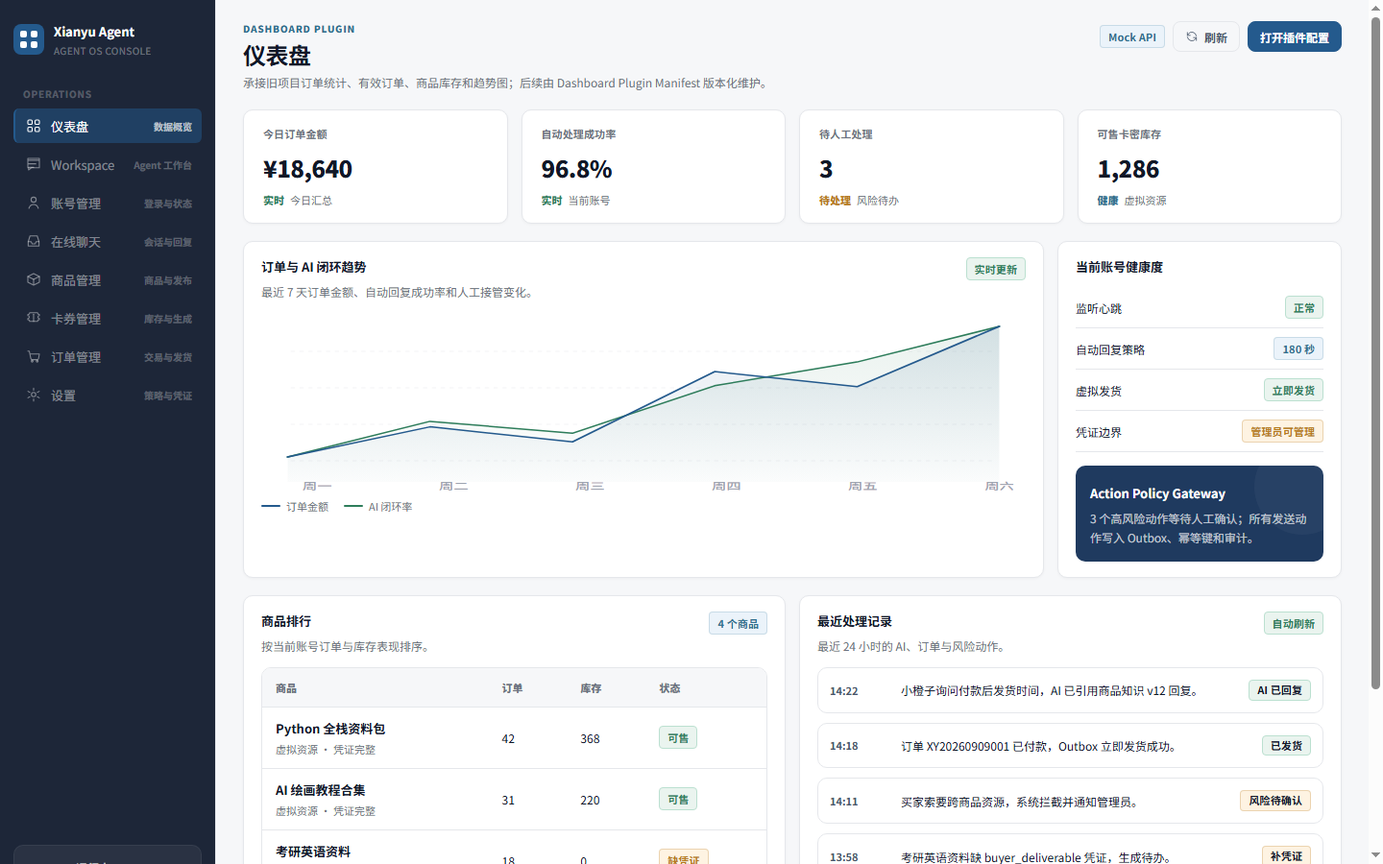
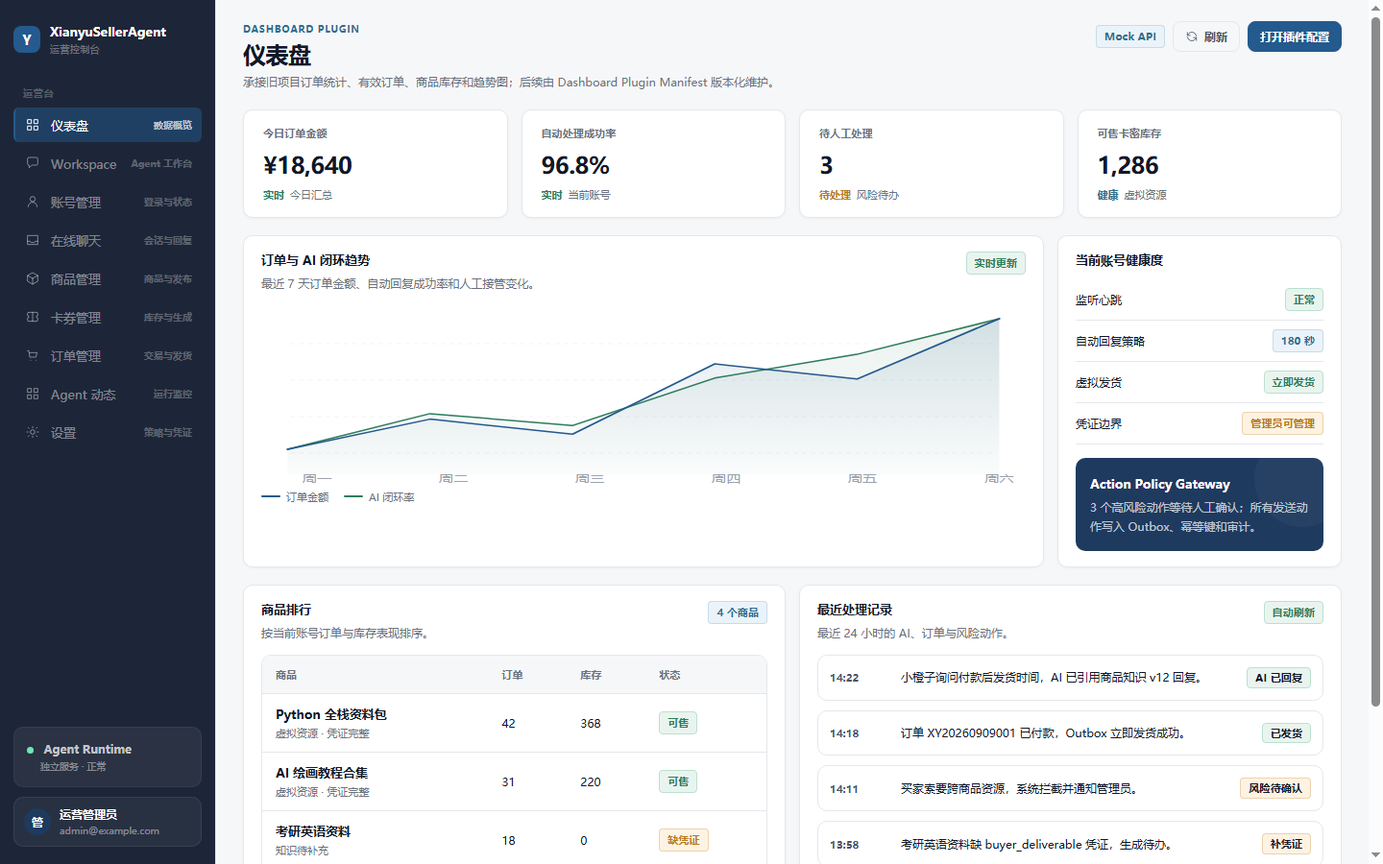
fix(web): reuse shared shell for dashboard

diff --git a/apps/web/src/features/dashboard/components/dashboard.css b/apps/web/src/features/dashboard/components/dashboard.css
@@ -1,30 +1,7 @@
-.dashboard-experience{min-height:100vh;background:var(--bg);color:var(--text)}
-.dashboard-desktop-shell{width:100%;min-height:100vh;display:flex;overflow:hidden;background:var(--bg)}
-.dashboard-sidebar{width:224px;flex:0 0 224px;background:var(--sidebar);color:#fff;display:flex;flex-direction:column;padding:18px 14px}
-.dashboard-brand-block{height:46px;display:flex;align-items:center;gap:10px;margin-bottom:22px}
-.dashboard-logo{width:32px;height:32px;border-radius:8px;background:var(--link);display:grid;grid-template-columns:repeat(2,7px);grid-auto-rows:7px;gap:4px;place-content:center;flex:0 0 auto}
-.dashboard-logo span{display:block;border-radius:2px;background:#fff}
-.dashboard-brand-copy strong{display:block;font-size:13px;font-weight:700}
-.dashboard-brand-copy span{display:block;margin-top:3px;color:rgba(255,255,255,.35);font-size:10px;text-transform:uppercase;letter-spacing:.04em}
-.dashboard-side-section{margin:4px 10px 8px;color:rgba(255,255,255,.25);font-size:10px;font-weight:700;text-transform:uppercase;letter-spacing:.08em}
-.dashboard-side-nav{display:grid;gap:4px}
-.dashboard-side-nav button{display:grid;grid-template-columns:18px 1fr auto;gap:9px;align-items:center;min-height:36px;padding:8px 10px;border:0;border-left:2px solid transparent;border-radius:6px;background:transparent;color:rgba(255,255,255,.45);text-align:left;font-size:13px}
-.dashboard-side-nav button small{color:rgba(255,255,255,.28);font-size:10px;font-weight:700}
-.dashboard-side-nav button:hover{background:var(--sidebar-hover);color:#fff}
-.dashboard-side-nav button.active{background:rgba(36,90,141,.5);color:#fff;border-left-color:var(--link)}
-.dashboard-side-nav button.active small{color:rgba(255,255,255,.7)}
+.dashboard-experience{min-height:100%;background:transparent;color:var(--text)}
+.dashboard-desktop-content{display:block}
+.dashboard-mobile-content{display:none}
 .dashboard-icon{width:18px;height:18px;fill:none;stroke:currentColor;stroke-width:1.45;stroke-linecap:round;stroke-linejoin:round}
-.dashboard-sidebar-bottom{margin-top:auto;display:grid;gap:10px}
-.dashboard-side-card{padding:13px;border-radius:10px;background:rgba(255,255,255,.06);border:1px solid rgba(255,255,255,.06);color:rgba(255,255,255,.74);font-size:12px;line-height:1.6}
-.dashboard-side-card small{color:rgba(255,255,255,.45)}
-.dashboard-online-dot{display:inline-block;width:7px;height:7px;margin-right:7px;border-radius:999px;background:var(--success-bright)}
-.dashboard-sidebar-alert{height:34px;position:relative;display:flex;align-items:center;gap:9px;padding:0 11px;border:1px solid rgba(255,255,255,.08);border-radius:10px;background:rgba(255,255,255,.05);color:rgba(255,255,255,.74);font-size:12px;font-weight:700;text-align:left}
-.dashboard-sidebar-alert b{position:absolute;left:22px;top:4px;width:14px;height:14px;border-radius:50%;background:var(--danger);border:1.5px solid var(--sidebar);color:#fff;font-size:8px;line-height:11px;text-align:center}
-.dashboard-sidebar-user{display:flex;align-items:center;gap:9px;padding:9px 10px;border:1px solid rgba(255,255,255,.08);border-radius:10px;background:rgba(255,255,255,.05);color:#fff}
-.dashboard-sidebar-user strong,.dashboard-sidebar-user span{display:block}.dashboard-sidebar-user strong{font-size:12px}.dashboard-sidebar-user span{margin-top:2px;color:rgba(255,255,255,.45);font-size:10px}
-.dashboard-avatar{width:28px;height:28px;border-radius:50%;background:var(--brand);color:#fff;display:grid;place-items:center;font-size:12px;font-weight:700}
-.dashboard-desktop-body{flex:1;display:flex;min-width:0;overflow:hidden;border-left:1px solid var(--border)}
-.dashboard-desktop-body main{flex:1;overflow:auto;padding:22px 28px}
 .dashboard-page-stack{display:flex;flex-direction:column;gap:18px}.dashboard-page-title{display:flex;justify-content:space-between;align-items:flex-start;gap:18px}
 .dashboard-eyebrow{margin:0 0 5px;color:var(--info);font-size:10px;font-weight:800;text-transform:uppercase;letter-spacing:.08em}
 .dashboard-page-title h1{margin:0 0 6px;color:var(--text);font-size:24px;line-height:1.12;letter-spacing:-.02em}.dashboard-page-title p:last-child{max-width:730px}
@@ -40,15 +17,15 @@
 .dashboard-data-table{display:grid;border:1px solid var(--border);border-radius:10px;overflow:hidden}.dashboard-table-head,.dashboard-table-row{display:grid;grid-template-columns:1.6fr .5fr .5fr .7fr;align-items:center;gap:12px;padding:12px 14px;border-bottom:1px solid var(--border);font-size:12px}.dashboard-table-head{background:var(--bg);color:var(--sub);font-size:11px;font-weight:800}.dashboard-table-row:last-child{border-bottom:0}.dashboard-table-row b{display:block;margin-bottom:3px;font-size:13px}.dashboard-table-row small{color:var(--sub);font-size:11px}.dashboard-empty-row{padding:24px 14px;color:var(--sub);font-size:12px;text-align:center}
 .dashboard-timeline{display:grid;gap:10px}.dashboard-timeline-row{display:grid;grid-template-columns:64px 1fr auto;gap:10px;align-items:center;padding:12px;border:1px solid var(--border);border-radius:10px;background:#fff;font-size:12px;text-align:left}.dashboard-timeline-row:hover{background:#F8FAFC}.dashboard-timeline-row strong{font-size:11px;color:var(--muted)}.dashboard-timeline-row span{line-height:1.45;color:var(--text)}
 .dashboard-risk-strip{display:flex;align-items:center;justify-content:space-between;gap:14px;padding:12px 14px;border:1px solid #D6E5F2;border-radius:10px;background:var(--soft-blue-bg)}.dashboard-risk-strip strong,.dashboard-risk-strip span{display:block}.dashboard-risk-strip strong{font-size:12px}.dashboard-risk-strip span{margin-top:3px;color:var(--sub);font-size:10px}.dashboard-risk-inline-list{display:flex;gap:8px;flex-wrap:wrap;justify-content:flex-end}.dashboard-risk-chip{display:flex;align-items:center;gap:7px;min-height:32px;padding:0 10px;border:1px solid var(--border);border-radius:8px;background:#fff;color:var(--text);font-size:11px}.dashboard-risk-chip small{margin:0;color:var(--link);font-weight:800}.dashboard-risk-high{border-color:rgba(180,35,24,.2)}.dashboard-risk-medium{border-color:rgba(183,121,31,.26)}
-.dashboard-state-stack{min-height:100%}.dashboard-state-card{display:grid;gap:10px;align-content:center;justify-items:start;min-height:300px;padding:24px;border:1px dashed #C8D8EA;border-radius:10px;background:#fff}.dashboard-state-card strong{font-size:15px}.dashboard-state-card p{margin:0;color:var(--sub);font-size:12px;line-height:1.6}.dashboard-state-forbidden{border-color:rgba(180,35,24,.22);background:var(--danger-bg)}.dashboard-state-timeout{border-color:rgba(183,121,31,.24);background:var(--warn-bg)}.dashboard-state-error{border-color:rgba(180,35,24,.22);background:#FFF8F7}.dashboard-skeleton-title{width:220px;height:20px;border-radius:6px;background:linear-gradient(90deg,#EEF2F7 25%,#F8FAFC 50%,#EEF2F7 75%);background-size:200% 100%;animation:dashboard-shimmer 1.4s infinite}.dashboard-skeleton-copy{width:420px;height:12px;border-radius:6px;background:#F1F5F9}.dashboard-skeleton-grid{display:grid;grid-template-columns:repeat(4,1fr);gap:14px;width:100%;margin-top:8px}.dashboard-skeleton-grid span{height:108px;border-radius:10px;background:linear-gradient(90deg,#EEF2F7 25%,#F8FAFC 50%,#EEF2F7 75%);background-size:200% 100%;animation:dashboard-shimmer 1.4s infinite}.dashboard-mobile-frame{display:none}
+.dashboard-state-stack{min-height:100%}.dashboard-state-card{display:grid;gap:10px;align-content:center;justify-items:start;min-height:300px;padding:24px;border:1px dashed #C8D8EA;border-radius:10px;background:#fff}.dashboard-state-card strong{font-size:15px}.dashboard-state-card p{margin:0;color:var(--sub);font-size:12px;line-height:1.6}.dashboard-state-forbidden{border-color:rgba(180,35,24,.22);background:var(--danger-bg)}.dashboard-state-timeout{border-color:rgba(183,121,31,.24);background:var(--warn-bg)}.dashboard-state-error{border-color:rgba(180,35,24,.22);background:#FFF8F7}.dashboard-skeleton-title{width:220px;height:20px;border-radius:6px;background:linear-gradient(90deg,#EEF2F7 25%,#F8FAFC 50%,#EEF2F7 75%);background-size:200% 100%;animation:dashboard-shimmer 1.4s infinite}.dashboard-skeleton-copy{width:420px;height:12px;border-radius:6px;background:#F1F5F9}.dashboard-skeleton-grid{display:grid;grid-template-columns:repeat(4,1fr);gap:14px;width:100%;margin-top:8px}.dashboard-skeleton-grid span{height:108px;border-radius:6px;background:linear-gradient(90deg,#EEF2F7 25%,#F8FAFC 50%,#EEF2F7 75%);background-size:200% 100%;animation:dashboard-shimmer 1.4s infinite}
 .dashboard-icon-button{position:relative;width:32px;height:32px;display:grid;place-items:center;border:1px solid var(--border);border-radius:8px;background:#fff;color:var(--muted)}.dashboard-icon-button b{position:absolute;top:-4px;right:-4px;width:14px;height:14px;border-radius:999px;background:var(--danger);border:1.5px solid #fff;color:#fff;font-size:8px;line-height:12px}
 .dashboard-risk-drawer{position:fixed;inset:0;z-index:40;display:flex;justify-content:flex-end;background:rgba(17,24,39,.24);backdrop-filter:blur(4px)}.dashboard-risk-drawer-card{width:min(420px,calc(100vw - 28px));height:100%;padding:24px;background:#fff;box-shadow:-18px 0 48px rgba(17,24,39,.16)}.dashboard-risk-drawer-head{display:flex;justify-content:space-between;gap:14px;align-items:flex-start;margin-bottom:18px}.dashboard-risk-drawer-head h2{margin:0;font-size:18px}.dashboard-risk-drawer-card>p{color:var(--muted);font-size:13px;line-height:1.65}.dashboard-risk-drawer-meta{display:flex;justify-content:space-between;align-items:center;margin-top:22px;padding:12px;border-radius:10px;background:var(--bg);font-size:12px}.dashboard-risk-drawer-actions{display:flex;justify-content:flex-end;gap:8px;margin-top:24px}
-.dashboard-mobile-status,.dashboard-mobile-head,.dashboard-mobile-main,.dashboard-mobile-tabs{display:none}
+.dashboard-mobile-status,.dashboard-mobile-head,.dashboard-mobile-main{display:none}
 @keyframes dashboard-shimmer{0%{background-position:200% 0}100%{background-position:-200% 0}}
 
 @media(max-width:900px){
-  .dashboard-desktop-shell{display:none}.dashboard-mobile-frame{width:390px;height:844px;max-width:100vw;display:flex;position:relative;overflow:hidden;flex-direction:column;margin:0 auto;background:var(--bg);border:10px solid #111827;border-radius:34px;box-shadow:0 20px 80px rgba(0,0,0,.15)}
-  .dashboard-mobile-status{height:44px;flex:0 0 44px;display:flex;align-items:center;justify-content:space-between;padding:0 22px;background:#fff;color:var(--text);font-size:12px;font-weight:700}.dashboard-mobile-head{flex:0 0 auto;display:flex;justify-content:space-between;align-items:center;padding:10px 20px 14px;background:#fff;border-bottom:1px solid var(--border)}.dashboard-mobile-head strong{font-size:16px}.dashboard-mobile-head-actions{display:flex;align-items:center;gap:8px}.dashboard-mobile-account-chip{height:32px;padding:0 11px;border:1px solid var(--border);border-radius:999px;background:var(--bg);color:var(--link);font-size:12px;font-weight:800}.dashboard-mobile-main{flex:1;overflow:auto;display:flex;flex-direction:column;gap:14px;padding:14px 16px 92px}.dashboard-mobile-tabs{position:absolute;bottom:0;left:0;right:0;display:flex;justify-content:space-around;gap:0;padding:8px 0 24px;border-top:1px solid var(--border);background:#fff}.dashboard-mobile-tabs button{border:0;background:transparent;color:var(--axis);display:grid;justify-items:center;gap:3px;font-size:9px;min-width:42px}.dashboard-mobile-tabs .dashboard-icon{width:34px;height:26px;padding:6px 8px;border-radius:8px}.dashboard-mobile-tabs button.active{color:var(--link);font-weight:800}.dashboard-mobile-tabs button.active .dashboard-icon{background:var(--soft-blue-bg)}
+  .dashboard-desktop-content{display:none}.dashboard-mobile-content{display:flex;min-height:100%;flex-direction:column;background:var(--bg)}
+  .dashboard-mobile-status{height:44px;flex:0 0 44px;display:flex;align-items:center;justify-content:space-between;padding:0 22px;background:#fff;color:var(--text);font-size:12px;font-weight:700}.dashboard-mobile-head{flex:0 0 auto;display:flex;justify-content:space-between;align-items:center;padding:10px 20px 14px;background:#fff;border-bottom:1px solid var(--border)}.dashboard-mobile-head strong{font-size:16px}.dashboard-mobile-head-actions{display:flex;align-items:center;gap:8px}.dashboard-mobile-account-chip{height:32px;padding:0 11px;border:1px solid var(--border);border-radius:999px;background:var(--bg);color:var(--link);font-size:12px;font-weight:800}.dashboard-mobile-main{flex:1;overflow:auto;display:flex;flex-direction:column;gap:14px;padding:14px 16px 24px}
   .dashboard-mobile-page{display:flex;flex-direction:column;gap:12px}.dashboard-mobile-status-summary{padding:14px;border-radius:12px}.dashboard-mobile-section-head{display:flex;align-items:flex-start;justify-content:space-between;gap:10px;margin-bottom:12px}.dashboard-mobile-section-head h2{margin:0 0 4px;font-size:13px}.dashboard-mobile-section-head p{margin:0;font-size:11px;line-height:1.45}.dashboard-mobile-health-grid{display:grid;grid-template-columns:1fr 1fr;gap:8px}.dashboard-mobile-health-grid span{padding:10px;border:1px solid var(--border);border-radius:10px;background:var(--bg)}.dashboard-mobile-health-grid b{display:block;margin-bottom:3px;color:var(--text);font-size:12px}.dashboard-mobile-health-grid small{display:block;color:var(--sub);font-size:10px}
   .dashboard-mobile-quick-grid{display:grid;grid-template-columns:repeat(2,1fr);gap:10px}.dashboard-mobile-quick-card{min-height:68px;text-align:left;border:1px solid var(--border);border-radius:12px;background:#fff;padding:12px;box-shadow:var(--shadow-card)}.dashboard-mobile-quick-card span{display:block;margin-bottom:6px;color:var(--text);font-size:13px;font-weight:800}.dashboard-mobile-quick-card small{display:block;color:var(--sub);font-size:11px}.dashboard-tone-card-ok{box-shadow:inset 3px 0 0 var(--success),0 1px 3px rgba(0,0,0,.04)}.dashboard-tone-card-warn{box-shadow:inset 3px 0 0 var(--warn),0 1px 3px rgba(0,0,0,.04)}.dashboard-tone-card-danger{box-shadow:inset 3px 0 0 var(--danger),0 1px 3px rgba(0,0,0,.04)}.dashboard-tone-card-info{box-shadow:inset 3px 0 0 var(--info),0 1px 3px rgba(0,0,0,.04)}
   .dashboard-mobile-kpis{display:grid;grid-template-columns:repeat(2,1fr);gap:10px}.dashboard-mobile-kpis .dashboard-kpi-card{padding:14px}.dashboard-mobile-kpis .dashboard-kpi-value{font-size:22px}.dashboard-mobile-kpis .dashboard-kpi-label{min-height:26px}.dashboard-mobile-kpis .dashboard-kpi-delta{align-items:flex-start;flex-direction:column;gap:1px}.dashboard-mobile-kpis .dashboard-kpi-delta small{line-height:1.2}
@@ -57,5 +34,4 @@
   .dashboard-risk-drawer{align-items:flex-end}.dashboard-risk-drawer-card{width:100%;height:auto;max-height:70vh;padding:18px;border-radius:18px 18px 0 0}
 }
 
-@media(min-width:901px){.dashboard-mobile-frame{display:none}}
-@media(max-width:1100px) and (min-width:901px){.dashboard-main-grid{grid-template-columns:1fr 260px}.dashboard-side-nav button{grid-template-columns:18px 1fr}.dashboard-side-nav button small{display:none}.dashboard-risk-inline-list{justify-content:flex-start}}
+@media(max-width:1100px) and (min-width:901px){.dashboard-main-grid{grid-template-columns:1fr 260px}.dashboard-risk-inline-list{justify-content:flex-start}}

diff --git a/apps/web/src/app/App.tsx b/apps/web/src/app/App.tsx
@@ -91,8 +91,8 @@ export default function App() {
   </AuthGate>;
 }
 
-function AuthenticatedShell({ page, accountsApi, productsApi, couponsApi, messagesApi, workspaceApi, ordersApi, settingsApi, autoReplyAgentSettingsApi, openaiSettingsApi, modelProviderApi, agentDynamicsApi, dashboardApi, navigate }: { page: PageKey; accountsApi: ReturnType<typeof createAccountsApi>; productsApi: ReturnType<typeof createProductsApi>; couponsApi: ReturnType<typeof createCouponsApi>; messagesApi: ReturnType<typeof createMessagesApi>; workspaceApi: ReturnType<typeof createWorkspaceApi>; ordersApi: ReturnType<typeof createOrdersApi>; settingsApi: ReturnType<typeof createCredentialApi>; autoReplyAgentSettingsApi: ReturnType<typeof createAutoReplyAgentSettingsApi>; openaiSettingsApi: ReturnType<typeof createOpenAISettingsApi>; modelProviderApi: ReturnType<typeof createModelProviderApi>; agentDynamicsApi: AgentDynamicsApi; dashboardApi: ReturnType<typeof createDashboardApi>; navigate: (next: PageKey) => void }) {
-  if (page === 'dashboard') return <DashboardPage api={dashboardApi} apiMode={resolveDashboardMode(apiMode, import.meta.env.VITE_DASHBOARD_MODE)} onNavigate={navigate} />;
+export function AuthenticatedShell({ page, accountsApi, productsApi, couponsApi, messagesApi, workspaceApi, ordersApi, settingsApi, autoReplyAgentSettingsApi, openaiSettingsApi, modelProviderApi, agentDynamicsApi, dashboardApi, navigate }: { page: PageKey; accountsApi: ReturnType<typeof createAccountsApi>; productsApi: ReturnType<typeof createProductsApi>; couponsApi: ReturnType<typeof createCouponsApi>; messagesApi: ReturnType<typeof createMessagesApi>; workspaceApi: ReturnType<typeof createWorkspaceApi>; ordersApi: ReturnType<typeof createOrdersApi>; settingsApi: ReturnType<typeof createCredentialApi>; autoReplyAgentSettingsApi: ReturnType<typeof createAutoReplyAgentSettingsApi>; openaiSettingsApi: ReturnType<typeof createOpenAISettingsApi>; modelProviderApi: ReturnType<typeof createModelProviderApi>; agentDynamicsApi: AgentDynamicsApi; dashboardApi: ReturnType<typeof createDashboardApi>; navigate: (next: PageKey) => void }) {
+  const dashboardApiMode = resolveDashboardMode(apiMode, import.meta.env.VITE_DASHBOARD_MODE);
   return (
     <div className="app-viewport">
       <div className={`desktop-shell${page === 'products' ? ' products-shell' : page === 'accounts' ? ' accounts-shell' : page === 'orders' ? ' orders-shell' : page === 'settings' ? ' settings-shell' : page === 'agent-dynamics' ? ' agent-dynamics-shell-host' : ''}`}>
@@ -105,7 +105,7 @@ function AuthenticatedShell({ page, accountsApi, productsApi, couponsApi, messag
           <div className="sidebar-bottom"><div className="agent-card"><span className="online-dot" /> <strong>Agent Runtime</strong><small>独立服务 · 正常</small></div><div className="sidebar-user"><div className="avatar">管</div><div><strong>运营管理员</strong><span>admin@example.com</span></div></div></div>
         </aside>
         <div className="desktop-body">
-          <main className={page === 'products' ? 'products-main' : page === 'accounts' ? 'accounts-main' : page === 'orders' ? 'orders-main' : page === 'settings' ? 'settings-main' : page === 'agent-dynamics' ? 'agent-dynamics-main-host' : undefined}>{renderAuthenticatedPage({ page, accountsApi, productsApi, couponsApi, messagesApi, workspaceApi, ordersApi, settingsApi, autoReplyAgentSettingsApi, openaiSettingsApi, modelProviderApi, agentDynamicsApi, onNavigate: navigate })}</main>
+          <main className={page === 'products' ? 'products-main' : page === 'accounts' ? 'accounts-main' : page === 'orders' ? 'orders-main' : page === 'settings' ? 'settings-main' : page === 'agent-dynamics' ? 'agent-dynamics-main-host' : undefined}>{renderAuthenticatedPage({ page, accountsApi, productsApi, couponsApi, messagesApi, workspaceApi, ordersApi, settingsApi, autoReplyAgentSettingsApi, openaiSettingsApi, modelProviderApi, agentDynamicsApi, dashboardApi, dashboardApiMode, onNavigate: navigate })}</main>
         </div>
       </div>
     </div>
@@ -125,11 +125,15 @@ type AuthenticatedPageProps = {
   openaiSettingsApi: ReturnType<typeof createOpenAISettingsApi>;
   modelProviderApi: ReturnType<typeof createModelProviderApi>;
   agentDynamicsApi: AgentDynamicsApi;
+  dashboardApi: ReturnType<typeof createDashboardApi>;
+  dashboardApiMode: 'live' | 'mock';
   onNavigate: (page: PageKey) => void;
 };
 
-export function renderAuthenticatedPage({ page, accountsApi, productsApi, couponsApi, messagesApi, workspaceApi, ordersApi, settingsApi, autoReplyAgentSettingsApi, openaiSettingsApi, modelProviderApi, agentDynamicsApi, onNavigate }: AuthenticatedPageProps) {
+export function renderAuthenticatedPage({ page, accountsApi, productsApi, couponsApi, messagesApi, workspaceApi, ordersApi, settingsApi, autoReplyAgentSettingsApi, openaiSettingsApi, modelProviderApi, agentDynamicsApi, dashboardApi, dashboardApiMode, onNavigate }: AuthenticatedPageProps) {
   switch (page) {
+    case 'dashboard':
+      return <DashboardPage api={dashboardApi} apiMode={dashboardApiMode} onNavigate={onNavigate} />;
     case 'accounts':
       return <AccountsPage api={accountsApi} />;
     case 'products':

diff --git a/apps/web/src/features/dashboard/components/DashboardPage.tsx b/apps/web/src/features/dashboard/components/DashboardPage.tsx
@@ -1,9 +1,8 @@
 import { useState } from 'react';
 import type { PageKey } from '../../../app/navigation';
-import { navItems } from '../../../app/navigation';
 import type { DashboardApi } from '../api';
 import { useDashboardController } from '../controller';
-import { DashboardDesktopContent, DashboardMobileContent, Icon, Logo } from './DashboardViews';
+import { DashboardDesktopContent, DashboardMobileContent, Icon } from './DashboardViews';
 import './dashboard.css';
 
 export function DashboardPage({ api, apiMode, onNavigate }: { api?: DashboardApi; apiMode: 'live' | 'mock'; onNavigate: (page: PageKey) => void }) {
@@ -21,26 +20,12 @@ export function DashboardPage({ api, apiMode, onNavigate }: { api?: DashboardApi
 
   const activeTodo = controller.state.data?.riskTodos.find((item) => item.id === riskDrawer);
   return <div className="dashboard-experience">
-    <div className="dashboard-desktop-shell">
-      <DashboardSidebar page="dashboard" onNavigate={onNavigate}/>
-      <div className="dashboard-desktop-body"><main><DashboardDesktopContent state={controller.state} apiMode={apiMode} onOpenSettings={() => onNavigate('settings')} onOpenTodo={openTodo} onRefresh={controller.reload}/></main></div>
-    </div>
-    <div className="dashboard-mobile-frame">
+    <div className="dashboard-desktop-content"><DashboardDesktopContent state={controller.state} apiMode={apiMode} onOpenSettings={() => onNavigate('settings')} onOpenTodo={openTodo} onRefresh={controller.reload}/></div>
+    <div className="dashboard-mobile-content">
       <div className="dashboard-mobile-status"><span>9:41</span><span>5G 100%</span></div>
       <header className="dashboard-mobile-head"><div><strong>今日总览</strong></div><div className="dashboard-mobile-head-actions"><button type="button" className="dashboard-mobile-account-chip" onClick={() => onNavigate('accounts')}>账号 A</button><button type="button" className="dashboard-icon-button" aria-label="通知" onClick={() => openTodo('todo_001')}><Icon name="bell"/><b>3</b></button></div></header>
       <main className="dashboard-mobile-main"><DashboardMobileContent state={controller.state} onOpenTodo={openTodo}/></main>
-      <nav className="dashboard-mobile-tabs" aria-label="移动端主导航">{navItems.map((item) => <button type="button" key={item.key} className={item.key === 'dashboard' ? 'active' : ''} onClick={() => onNavigate(item.key)}><Icon name={item.icon}/><span>{item.key === 'dashboard' ? '总览' : item.label.replace('管理', '').replace('在线', '')}</span></button>)}</nav>
     </div>
     {activeTodo ? <aside className="dashboard-risk-drawer" role="dialog" aria-modal="true" aria-label="风险待办详情"><div className="dashboard-risk-drawer-card"><div className="dashboard-risk-drawer-head"><div><p className="dashboard-eyebrow">Risk Todo</p><h2>{activeTodo.title}</h2></div><button type="button" className="dashboard-icon-button" aria-label="关闭" onClick={() => setRiskDrawer(null)}>×</button></div><p>{activeTodo.detail}</p><div className="dashboard-risk-drawer-meta"><span>严重级别</span><strong className={`tone-${activeTodo.tone}`}>{activeTodo.severity}</strong></div><div className="dashboard-risk-drawer-actions"><button type="button" className="dashboard-btn dashboard-btn-ghost" onClick={() => setRiskDrawer(null)}>稍后处理</button><button type="button" className="dashboard-btn dashboard-btn-primary" onClick={() => { setRiskDrawer(null); onNavigate(activeTodo.href.slice(1) as PageKey); }}>去处理</button></div></div></aside> : null}
   </div>;
 }
-
-function DashboardSidebar({ page, onNavigate }: { page: PageKey; onNavigate: (page: PageKey) => void }) {
-  return <aside className="dashboard-sidebar">
-    <div className="dashboard-brand-block"><Logo/><div className="dashboard-brand-copy"><strong>Xianyu Agent</strong><span>Agent OS Console</span></div></div>
-    <div className="dashboard-side-section">Operations</div>
-    <nav className="dashboard-side-nav" aria-label="主导航">{navItems.map((item) => <button type="button" key={item.key} className={page === item.key ? 'active' : ''} aria-current={page === item.key ? 'page' : undefined} onClick={() => onNavigate(item.key)}><Icon name={item.icon}/><span>{item.label}</span><small>{item.sub}</small></button>)}</nav>
-    <div className="dashboard-sidebar-bottom"><div className="dashboard-side-card"><span className="dashboard-online-dot"/><b>Agent 运行中</b><small>当前账号：闲鱼账号 A<br/>外部写动作经 Policy Gateway 与 Outbox。</small></div><button type="button" className="dashboard-sidebar-alert" aria-label="待确认动作" onClick={() => undefined}><Icon name="bell"/><b>3</b><span>待确认动作</span></button><div className="dashboard-sidebar-user"><div className="dashboard-avatar">陈</div><div><strong>运营管理员</strong><span>资料自动发货店</span></div></div></div>
-  </aside>;
-}
-

diff --git a/apps/web/src/features/dashboard/components/DashboardViews.tsx b/apps/web/src/features/dashboard/components/DashboardViews.tsx
@@ -3,21 +3,11 @@ import type { DashboardState } from '../types';
 
 function Icon({ name }: { name: string }) {
   const paths: Record<string, ReactNode> = {
-    grid: <><rect x="4" y="4" width="6" height="6" rx="1.5"/><rect x="14" y="4" width="6" height="6" rx="1.5"/><rect x="4" y="14" width="6" height="6" rx="1.5"/><rect x="14" y="14" width="6" height="6" rx="1.5"/></>,
-    message: <><path d="M5 6.5h14M5 11.5h10M5 16.5h7"/><path d="M4 4h16v13H9l-4 3v-3H4z"/></>,
-    user: <><circle cx="12" cy="8" r="3.5"/><path d="M5.5 20c1.1-3.6 3.2-5.4 6.5-5.4s5.4 1.8 6.5 5.4"/></>,
-    inbox: <><path d="M4.5 13 7 5h10l2.5 8"/><path d="M4.5 13h4l1.5 3h4l1.5-3h4v6H4.5z"/></>,
-    box: <><path d="m12 4 8 4-8 4-8-4 8-4Z"/><path d="m4 8v8l8 4 8-4V8M12 12v8"/></>,
-    ticket: <><path d="M4 7.5A2.5 2.5 0 0 0 6.5 5h11A2.5 2.5 0 0 0 20 7.5V9a2 2 0 0 0 0 4v1.5A2.5 2.5 0 0 0 17.5 17h-11A2.5 2.5 0 0 0 4 14.5V13a2 2 0 0 0 0-4V7.5Z"/><path d="M12 7v10"/></>,
-    cart: <><path d="M4 5h2l2.1 10.2a2 2 0 0 0 2 1.6h6.8a2 2 0 0 0 1.9-1.4L20 9H7"/><circle cx="10" cy="19" r="1.2"/><circle cx="17" cy="19" r="1.2"/></>,
-    gear: <><circle cx="12" cy="12" r="3"/><path d="M12 3v3M12 18v3M4.2 7.5l2.6 1.5M17.2 15l2.6 1.5M19.8 7.5 17.2 9M6.8 15l-2.6 1.5"/></>,
     bell: <><path d="M7 10a5 5 0 0 1 10 0v4l2 3H5l2-3z"/><path d="M10 19a2 2 0 0 0 4 0"/></>,
     refresh: <><path d="M20 11a8 8 0 0 0-14.7-3L4 10"/><path d="M4 5v5h5"/><path d="M4 13a8 8 0 0 0 14.7 3L20 14"/><path d="M20 19v-5h-5"/></>,
   };
   return <svg aria-hidden="true" viewBox="0 0 24 24" className="dashboard-icon"><g>{paths[name] ?? paths.grid}</g></svg>;
 }
-
-export function Logo() { return <div className="dashboard-logo" aria-label="XianyuSellerAgent"><span/><span/><span/><span/></div>; }
 
 export function Badge({ tone = 'gray', children }: { tone?: string; children: ReactNode }) { return <span className={`dashboard-badge dashboard-badge-${tone}`}>{children}</span>; }
 

diff --git a/apps/web/src/app/App.dashboard-mode.test.ts b/apps/web/src/app/App.dashboard-mode.test.ts
@@ -1,5 +1,7 @@
-import { describe, expect, it } from 'vitest';
-import { resolveDashboardMode } from './App';
+import { createElement } from 'react';
+import { renderToStaticMarkup } from 'react-dom/server';
+import { describe, expect, it, vi } from 'vitest';
+import { AuthenticatedShell, resolveDashboardMode } from './App';
 
 describe('dashboard API mode resolution', () => {
   it('inherits live mode when the dashboard override is unset', () => {
@@ -12,5 +14,36 @@ describe('dashboard API mode resolution', () => {
 
   it('does not promote a mock API transport to live mode', () => {
     expect(resolveDashboardMode('mock')).toBe('mock');
+  });
+
+  it('keeps the dashboard inside the shared application shell', () => {
+    const props = {
+      page: 'dashboard',
+      accountsApi: {},
+      productsApi: {},
+      couponsApi: {},
+      messagesApi: {},
+      workspaceApi: {},
+      ordersApi: {},
+      settingsApi: {},
+      autoReplyAgentSettingsApi: {},
+      openaiSettingsApi: {},
+      modelProviderApi: {},
+      agentDynamicsApi: {},
+      dashboardApi: { getSnapshot: vi.fn() },
+      navigate: vi.fn(),
+    } as unknown as Parameters<typeof AuthenticatedShell>[0];
+
+    const html = renderToStaticMarkup(createElement(AuthenticatedShell, props));
+
+    expect(html).toContain('class="sidebar"');
+    expect(html).toContain('XianyuSellerAgent');
+    expect(html).toContain('运营控制台');
+    expect(html).toContain('Agent Runtime');
+    expect(html).not.toContain('dashboard-sidebar');
+    expect(html).not.toContain('dashboard-desktop-shell');
+    expect(html).not.toContain('dashboard-mobile-frame');
+    expect(html).toContain('dashboard-desktop-content');
+    expect(html).toContain('dashboard-mobile-content');
   });
 });
